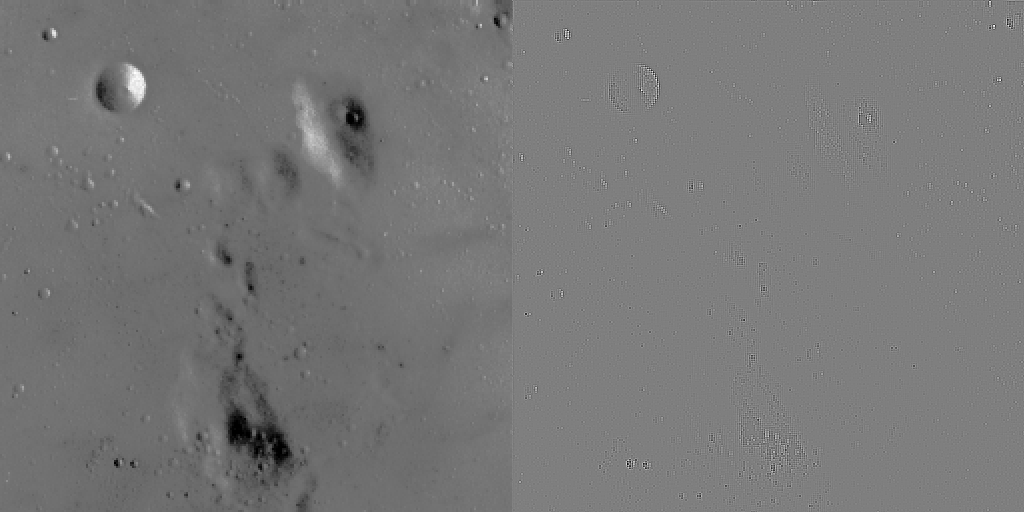
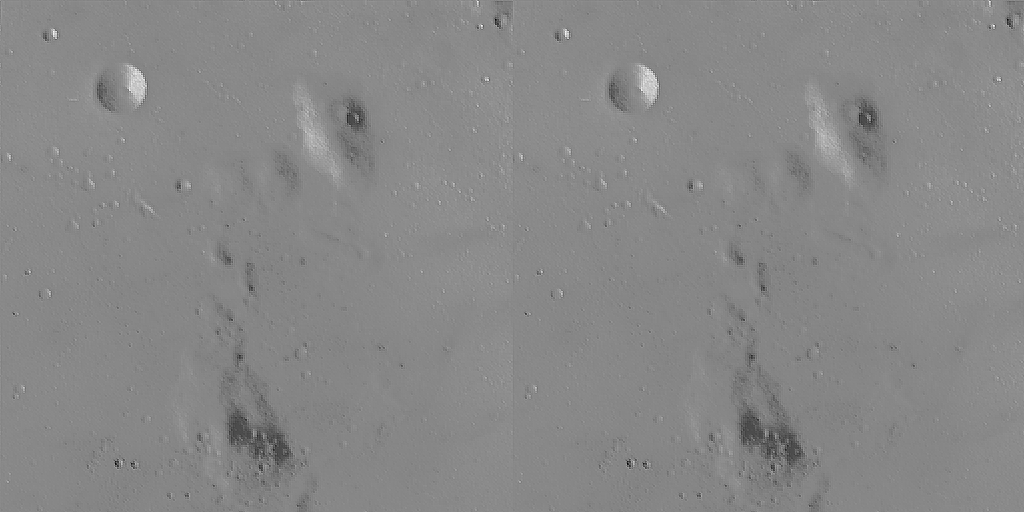
Fixed 4d

diff --git a/Image Processing/Assignment 2/code/task4d.py b/Image Processing/Assignment 2/code/task4d.py
@@ -20,8 +20,8 @@ def sharpen(im: np.array):
     ])
     ### START YOUR CODE HERE ### (You can change anything inside this block)
     
-    verbose = False
-    im = convolve_im(im, laplacian, verbose)
+    verbose = True
+    im += convolve_im(im, laplacian, verbose)
 
     if verbose:
         plt.savefig("image_processed/moon_sharpened_subplots.png")
